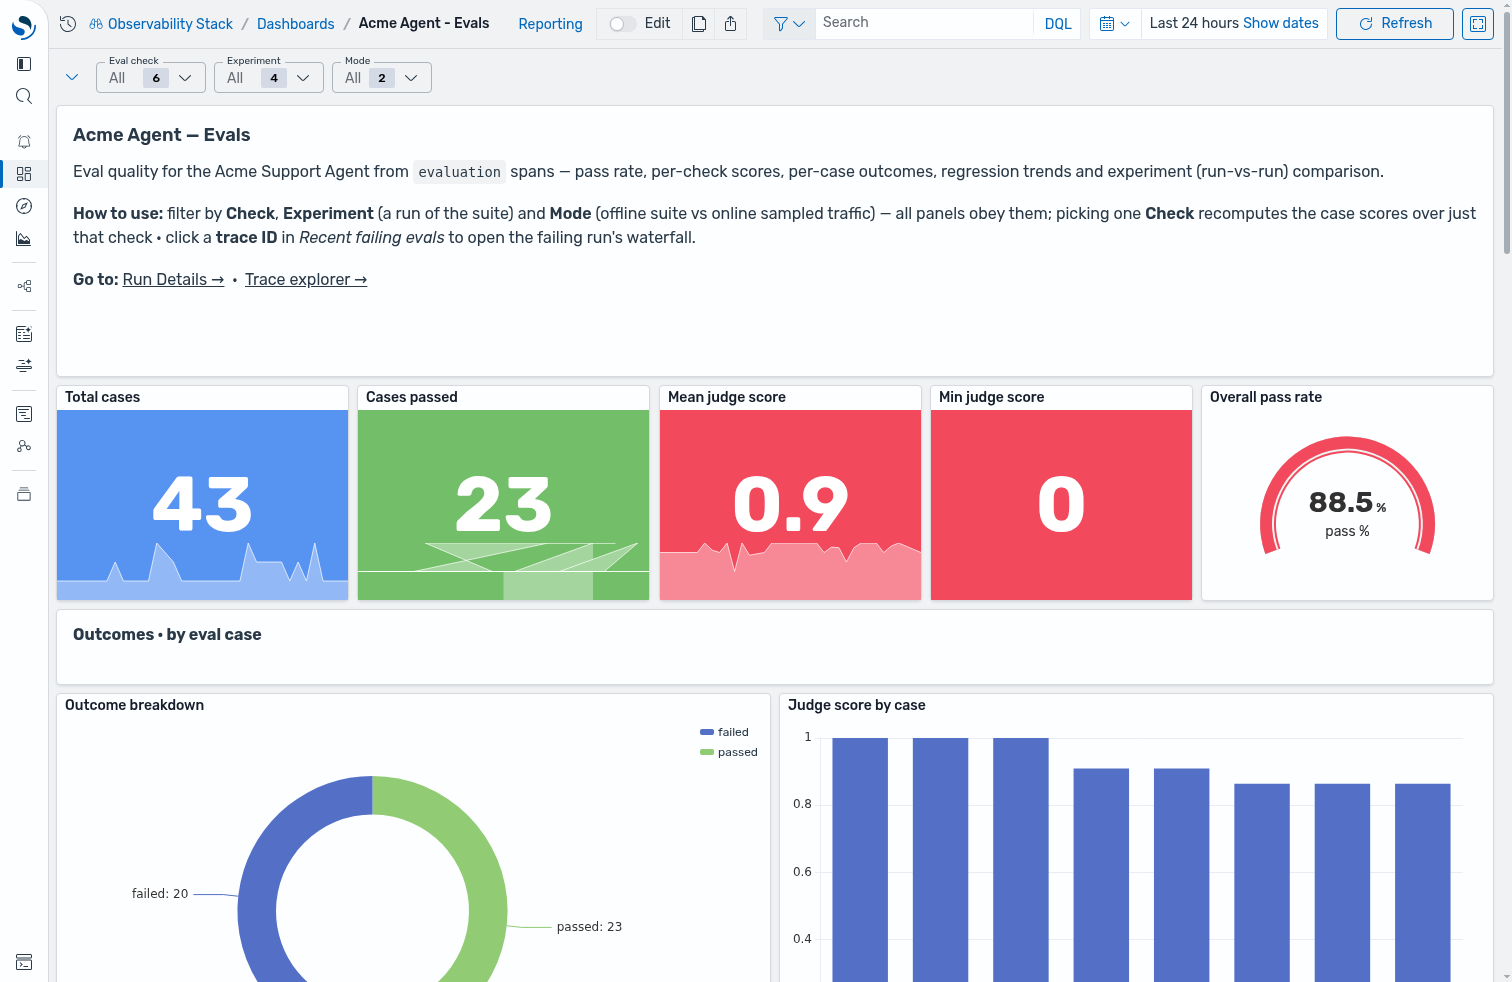
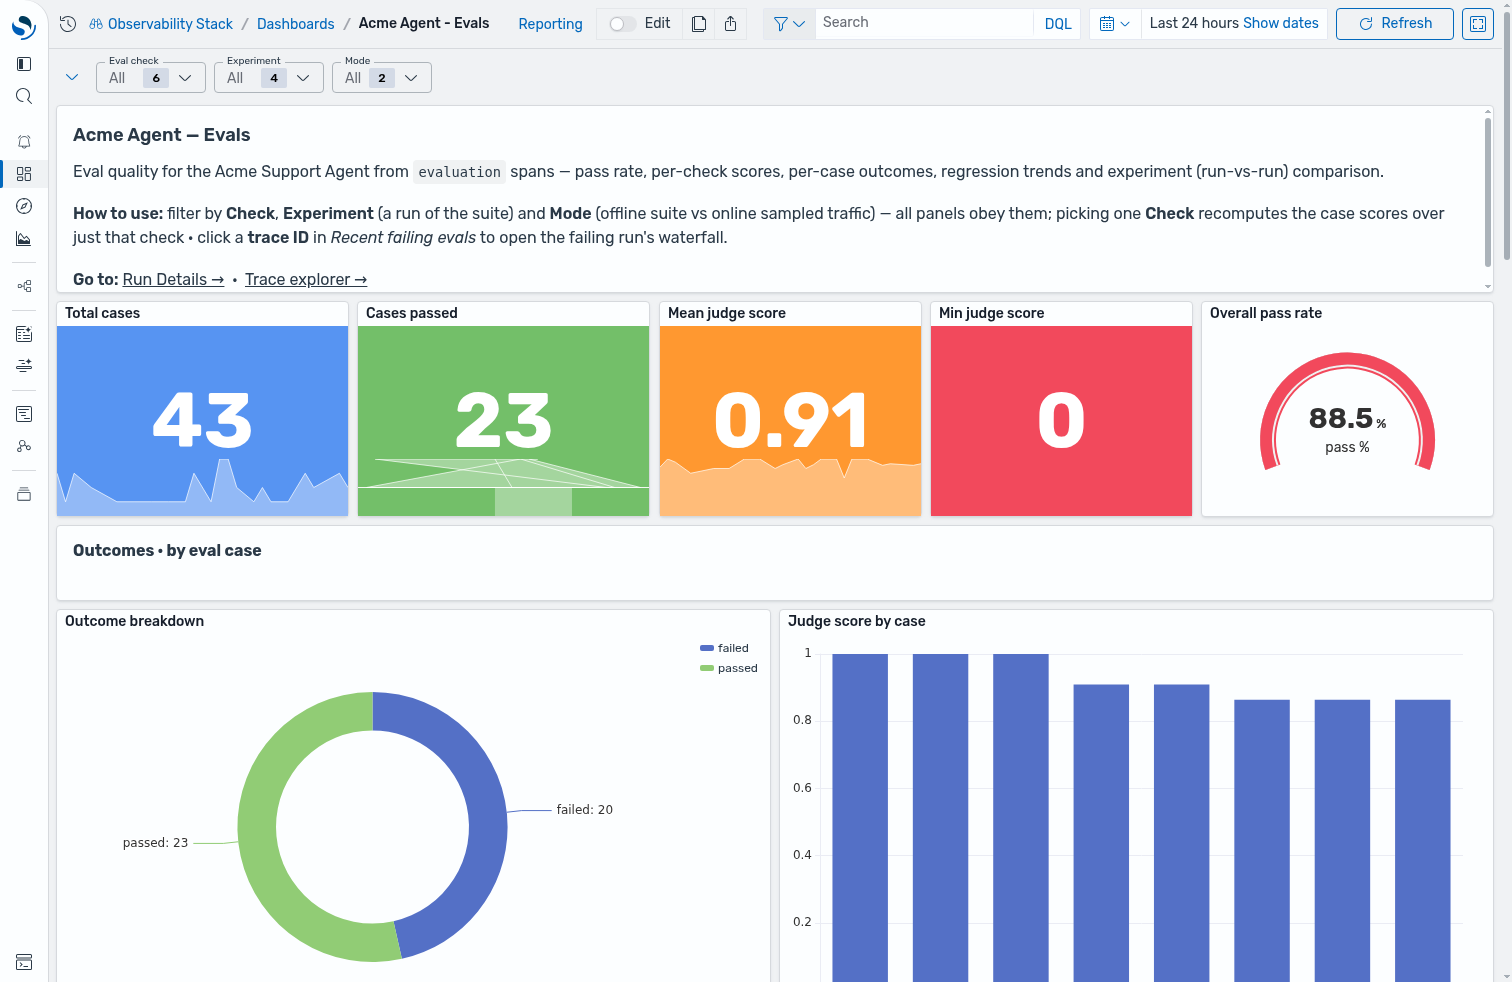
fix(dashboards): design review follow-ups — fill empty token panels, fix colors/labels/spacing
Run Details review fixes:
- Tokens by model + Tokens in vs out: were empty (mock never sets total_tokens);
  now sum input+output, and strip the provider prefix so model bars are distinct.
- Span export failures: green when 0 (was an alarming red tile), red only when >0.
- Span ingest vs export rate: emit two labeled series (accepted/exported) instead
  of PPL 'A or B' which only ever drew one line.
- Tool analytics: alias the tool column (was raw attributes.gen_ai.tool.name).
- Drop the null '-' footer row on every table (showFooter=false).
- Mock adds 0.05-0.9s latency jitter so P50/P95/P99 + latency distribution differ
  (were all identical).
- Tighten spacing: nav/overview NAV_H 10->7, Recent error traces 15->9 (less blank).
Screenshots refreshed; README notes updated.

diff --git a/acme-support-agent/dashboards/acme-dashboards-init.py b/acme-support-agent/dashboards/acme-dashboards-init.py
@@ -108,7 +108,7 @@ P_LINE = {"addLegend": True, "legendTitle": "", "legendPosition": "bottom", "add
           "thresholdOptions": {"baseColor": GREEN, "thresholds": [], "thresholdStyle": "off"},
           "standardAxes": [_AX_X, _AX_Y], "showFullTimeRange": False}
 P_AREA = {**P_LINE, "stackMode": "stacked"}
-P_TABLE = {"pageSize": 20, "globalAlignment": "left", "showColumnFilter": False, "showFooter": True,
+P_TABLE = {"pageSize": 20, "globalAlignment": "left", "showColumnFilter": False, "showFooter": False,
            "footerCalculations": [], "cellTypes": [], "thresholds": [], "baseColor": "#000000",
            "dataLinks": [], "visibleColumns": [], "hiddenColumns": []}
 
@@ -286,7 +286,7 @@ EXP = "`attributes.test.suite.name`"     # experiment (groups comparable runs)
 RUNID = "`attributes.test.suite.run.id`" # one eval run
 EVMODE = "`attributes.eval_mode`"        # offline (suite) | online (live sample)
 SPAN10 = "span(endTime,10m)"
-NAV_H = 10  # nav/overview panel height; content below is authored against y>=8 and shifted
+NAV_H = 7  # nav/overview panel height; content below is authored against y>=8 and shifted
 
 
 def _shift(layout):
@@ -348,19 +348,19 @@ def build(ws, span_id):
         (P(f"{R}-latdist", "Latency distribution (s)", f"| where {OP}='invoke_agent' | eval s=round(durationInNanos / 1000000000.0,1) | fields s", "histogram", histogram_params(BLUE), {"x": ["s"]}), 24, 27, 24, 15),
         # cost & tokens
         (md_panel(f"{R}-h-cost", "##### Cost & tokens"), 0, 34, 24, 3),
-        (P(f"{R}-tok-model", "Tokens by model", f"| where {MODEL}!='' {MF} | stats sum({TOT}) as tokens by {MODEL} | sort - tokens", "bar", P_BARH, {"x": [MODEL.strip('`')], "y": ["tokens"]}), 0, 37, 24, 15),
-        (P(f"{R}-tok-time", "Tokens in vs out over time", f"| where {TOT} > 0 {MF} | stats sum({IN}) as `in`, sum({OUT}) as `out` by {SPAN10}", "area", P_AREA, {"x": [SPAN10], "y": ["in", "out"]}), 24, 42, 24, 15),
+        (P(f"{R}-tok-model", "Tokens by model", f"| where {MODEL}!='' {MF} | eval model=replace(replace({MODEL},'us.anthropic.',''),'amazon.','') | stats sum({IN}) as i, sum({OUT}) as o by model | eval tokens=i + o | sort - tokens", "bar", P_BARH, {"x": ["model"], "y": ["tokens"]}), 0, 37, 24, 15),
+        (P(f"{R}-tok-time", "Tokens in vs out over time", f"| where {IN} > 0 {MF} | stats sum({IN}) as `in`, sum({OUT}) as `out` by {SPAN10}", "area", P_AREA, {"x": [SPAN10], "y": ["in", "out"]}), 24, 42, 24, 15),
         # tools & throughput
         (md_panel(f"{R}-h-tools", "##### Tools & throughput"), 24, 34, 24, 3),
-        (P(f"{R}-tools", "Tool analytics", f"| where {OP}='execute_tool' and isnotnull(`attributes.gen_ai.tool.name`) and `attributes.gen_ai.tool.name`!='' | stats count() as calls, avg(durationInNanos) as d by `attributes.gen_ai.tool.name` | eval `avg ms`=round(d / 1000000.0,2) | fields `attributes.gen_ai.tool.name`, calls, `avg ms` | sort - calls", "table", P_TABLE, {}), 24, 37, 24, 8),
+        (P(f"{R}-tools", "Tool analytics", f"| where {OP}='execute_tool' and isnotnull(`attributes.gen_ai.tool.name`) and `attributes.gen_ai.tool.name`!='' | stats count() as calls, avg(durationInNanos) as d by `attributes.gen_ai.tool.name` | eval tool=`attributes.gen_ai.tool.name`, `avg ms`=round(d / 1000000.0,2) | fields tool, calls, `avg ms` | sort - calls", "table", P_TABLE, {}), 24, 37, 24, 8),
         (P(f"{R}-throughput", "Throughput (runs / 10m)", f"| where {OP}='invoke_agent' | stats count() as runs by {SPAN10}", "line", P_LINE, {"x": [SPAN10], "y": ["runs"]}), 0, 52, 24, 15),
         # errors (drill-down)
         (md_panel(f"{R}-h-err", "##### Errors  ·  click a row's trace ID to open the trace"), 0, 67, 48, 3),
-        (P(f"{R}-errtbl", "Recent error traces", f"| where `status.code`=2 | fields traceId, endTime, name, `events.attributes.exception.message` | sort - endTime | head 20", "table", table_links(ws, span_id), {}), 0, 70, 48, 15),
+        (P(f"{R}-errtbl", "Recent error traces", f"| where `status.code`=2 | fields traceId, endTime, name, `events.attributes.exception.message` | sort - endTime | head 20", "table", table_links(ws, span_id), {}), 0, 70, 48, 9),
         # pipeline (PromQL)
-        (md_panel(f"{R}-h-pipe", "##### Telemetry pipeline (PromQL / Prometheus)"), 0, 85, 48, 3),
-        (promql_panel(f"{R}-ingest", "Span ingest vs export rate", "sum(rate(otelcol_receiver_accepted_spans_total[5m])) or sum(rate(otelcol_exporter_sent_spans_total[5m]))", "line", P_LINE, {"x": ["Time"], "y": ["Value"], "color": ["Series"]}), 0, 88, 36, 12),
-        (promql_panel(f"{R}-exfail", "Span export failures", "sum(otelcol_exporter_send_failed_spans_total) or on() vector(0)", "metric", metric_params(RED, calc="last"), {"value": ["Value"], "time": ["Time"]}), 36, 88, 12, 12),
+        (md_panel(f"{R}-h-pipe", "##### Telemetry pipeline (PromQL / Prometheus)"), 0, 79, 48, 3),
+        (promql_panel(f"{R}-ingest", "Span ingest vs export rate", 'label_replace(sum(rate(otelcol_receiver_accepted_spans_total[5m])),"series","accepted","","") or label_replace(sum(rate(otelcol_exporter_sent_spans_total[5m])),"series","exported","","")', "line", P_LINE, {"x": ["Time"], "y": ["Value"], "color": ["series"]}), 0, 82, 36, 12),
+        (promql_panel(f"{R}-exfail", "Span export failures", "sum(otelcol_exporter_send_failed_spans_total) or on() vector(0)", "metric", metric_params(GREEN, thresholds=[{"value": 0, "color": GREEN}, {"value": 1, "color": RED}], calc="last"), {"value": ["Value"], "time": ["Time"]}), 36, 82, 12, 12),
     ]
 
     # Every eval panel reads `evaluation` spans and applies the combined filter EF

diff --git a/acme-support-agent/python/acme/frameworks/mock_agent.py b/acme-support-agent/python/acme/frameworks/mock_agent.py
@@ -131,6 +131,8 @@ def run_turn(question: str, history: list[dict]) -> str:
         raise RuntimeError("Simulated Bedrock ThrottlingException: request rate exceeded")
     if "slow" in faults:
         time.sleep(9)  # breach LATENCY_BUDGET_S (8s)
+    else:
+        time.sleep(random.uniform(0.05, 0.9))  # realistic latency spread so P50/P95/P99 differ
     if "cost" in faults:
         record_usage(5200, 900)  # exceed TOKEN_BUDGET (4000)
         enrich(model=model, input_tokens=5200, output_tokens=900)  # show the blowup in token panels

diff --git a/acme-support-agent/dashboards/README.md b/acme-support-agent/dashboards/README.md
@@ -178,7 +178,10 @@ run the agent over time.
   to label a run (default `<framework>@<model>`). The "Mean score by run" panel + Experiment
   filter compare runs (v1 vs v2).
 - **Mock models:** in mock mode each turn picks one of a few real Bedrock model IDs (random), so
-  the Model filter has variety; pin one with `ACME_MODEL`.
+  the Model filter has variety; pin one with `ACME_MODEL`. Mock also adds a small random latency
+  (0.05–0.9s) so the P50/P95/P99 cards and latency distribution show a realistic spread.
+- **Token panels** sum `input_tokens + output_tokens` (not `total_tokens`, which the mock adapter
+  doesn't emit) so cost/token viz populate in both mock and real runs.
 - **Rollover gotcha:** if Data Prepper rolls the span index over to a fresh empty
   `otel-v1-apm-span-00000N`, its template maps `events.attributes` as a scalar while the
   populated index has it as an object — the mismatch makes wildcard PPL fail to plan
